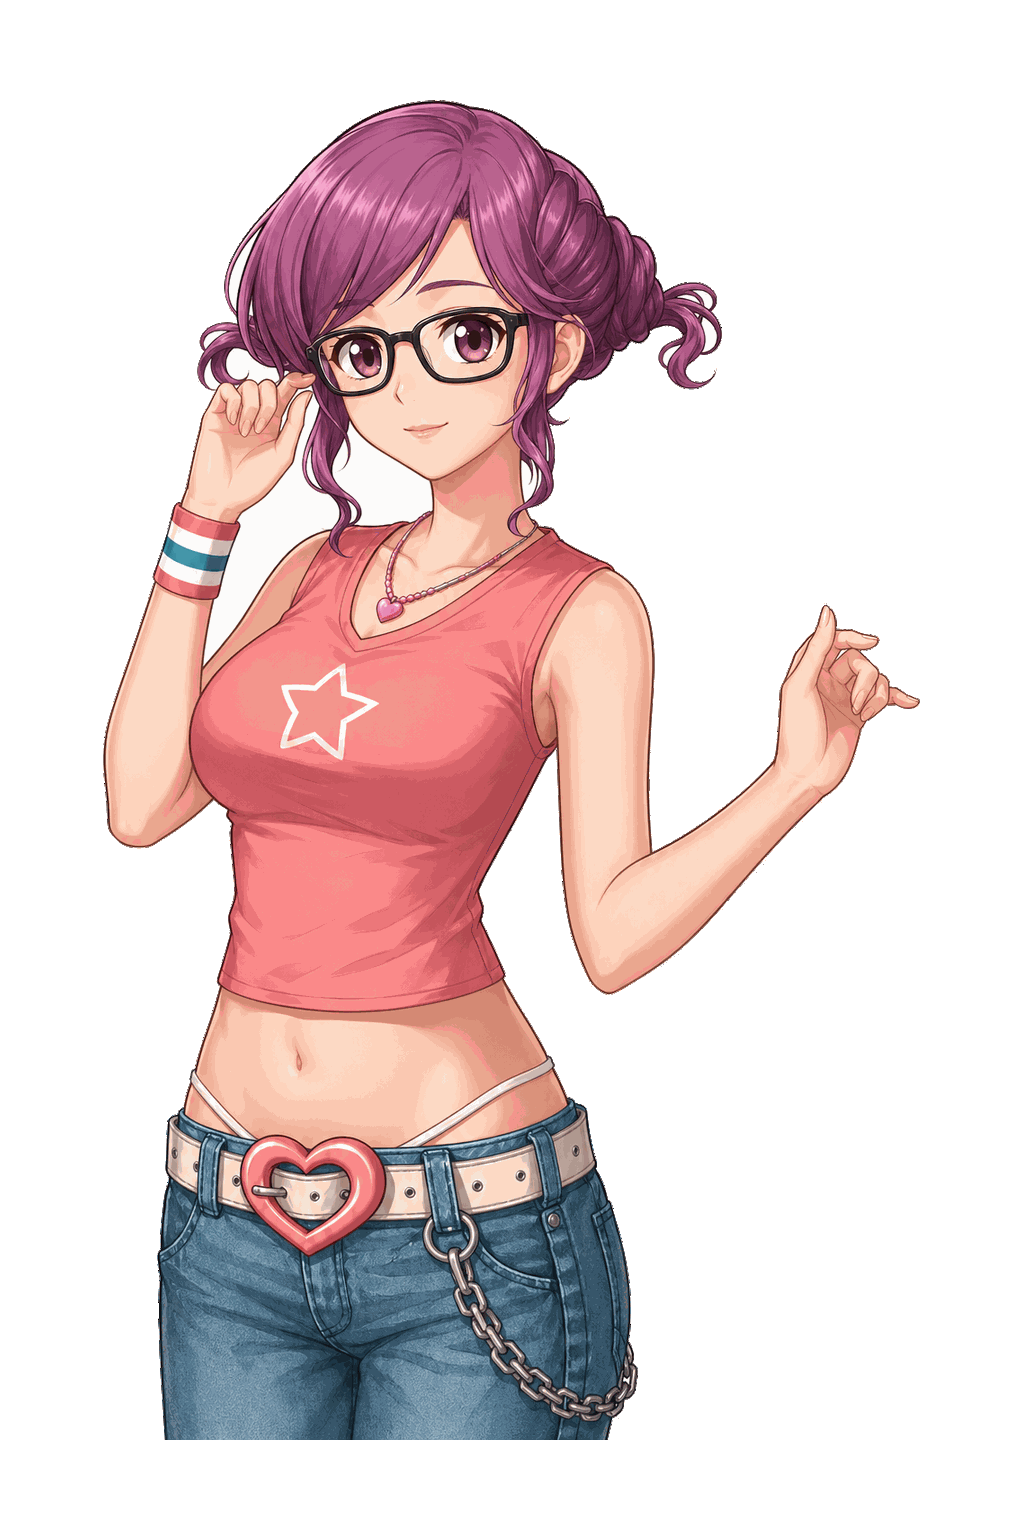
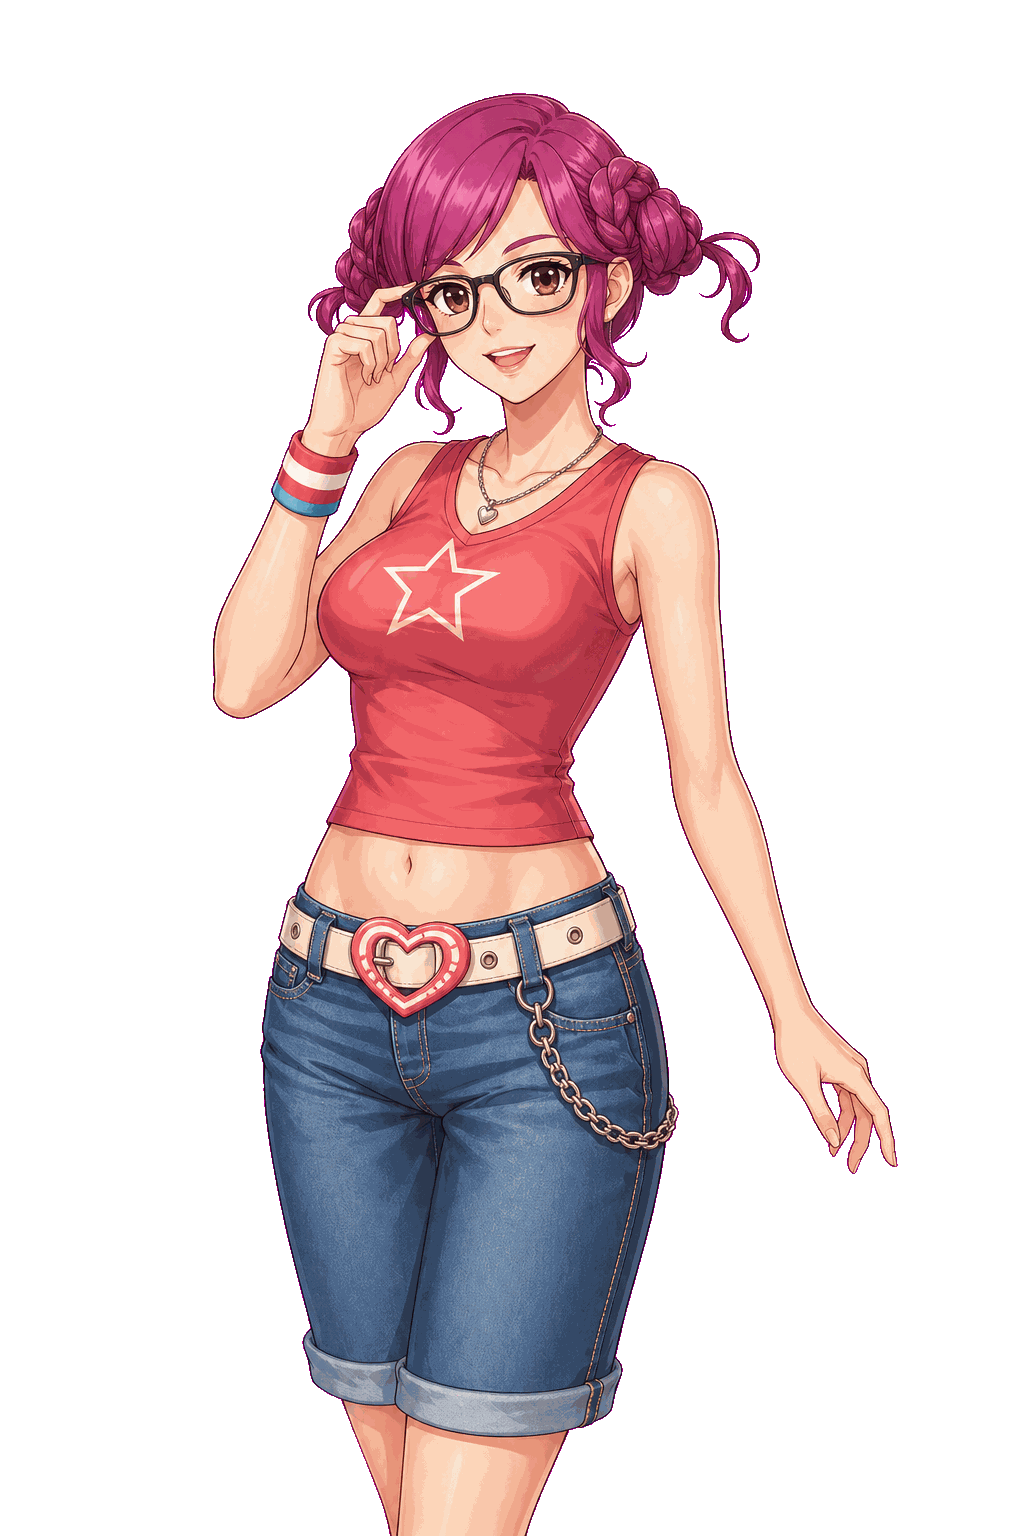
fix(portrait): regenerate suman portrait clean — replaces patch approach [prompt:021]
User insight: patching enclosed white slivers (hand-face gap,
hair-cheek-neck-shoulder gap) was a losing battle — corner-flood couldn't
reach them and connected-component sliver detection couldn't reliably
distinguish background from logo/highlights.

Approach: regenerate from references/suman-ref.png via $generate2dsprite
single-asset character with clean_hd art_style. Skill's own chroma-key
handles enclosed regions naturally because magenta fills all gaps before
chroma-key cleanup.

Verified by Claude (Pillow + Read):
- size 1024x1536 RGBA
- alpha halo (1..254): 0 (binary)
- opaque near-white: 3584 (was 24017) — only logo + highlights remain
- edge near-white: 0/6704 (was 42%)
- Visual: hand-head gap transparent, neck-shoulder gap transparent, white
  star logo on shirt preserved, character identity matches reference
  (magenta hair twin buns, red sleeveless, jeans, glasses, heart belt)

Process learning: cx wrapper had a stdin issue in background invocations
(codex would hang on 'Reading additional input from stdin'). Fixed cx
wrapper with conditional 'exec ... < /dev/null' for non-interactive runs.

Removed 020 prompt (superseded by 021's regenerate-instead-of-patch).

diff --git a/JOURNAL.md b/JOURNAL.md
@@ -672,3 +672,71 @@ index 571e921..407a87b 100644
 - **Decisions made**: Used local Pillow packing because the raw image_gen outputs were large 4x4 sheets, not project-ready 128x192 sheets. The packing targeted the measured chenyifu row bboxes exactly and did not modify chenyifu, portraits, React, JSON, or map files.
 
 2026-04-30 10:43 CST — Mechanical TS6133 fix in src/components/Dialogue/CharacterPortrait.tsx; removed unused `emotion` from destructure only, kept interface unchanged; `pnpm typecheck` n/a (sandbox: Corepack EPERM opening /Users/hubert/.cache/node/corepack/lastKnownGood.json).
+
+## 2026-04-30 10:49 — codex-prompt 020 flood-fill-enclosed-white
+
+- **STATUS**: blocked
+- **Commits**: pending Claude
+- **Files changed**:
+  - ~ public/portraits/suman-normal.png
+  - ~ codex-prompts/020-flood-fill-enclosed-white.md
+  - ~ JOURNAL.md
+- **Self-check**:
+  - typecheck: n/a (image-only task)
+  - lint: n/a (image-only task)
+  - dev server boot: n/a (sandbox)
+- **Verified output**:
+  1. Task A top 5 opaque near-white components before cleanup:
+     - size=9450 bbox=[y 394..663, x 204..338] touches_edge=False aspect=0.500
+     - size=5555 bbox=[y 423..524, x 333..431] touches_edge=False aspect=0.971
+     - size=1017 bbox=[y 349..382, x 227..278] touches_edge=False aspect=0.654
+     - size=663 bbox=[y 666..747, x 281..344] touches_edge=False aspect=0.780
+     - size=657 bbox=[y 1079..1145, x 403..512] touches_edge=False aspect=0.609
+  2. Task B cleanup parameters and count:
+     - rgb_threshold=220, size_min=50, aspect_min=0.7, dim_min=10
+     - cleared pixel count=14546
+     - cleared largest components included size=9450 bbox=[y 394..663, x 204..338] aspect=0.500; size=1017 bbox=[y 349..382, x 227..278] aspect=0.654; size=657 bbox=[y 1079..1145, x 403..512] aspect=0.609; size=638 bbox=[y 678..759, x 330..378] aspect=0.598; size=573 bbox=[y 527..553, x 173..211] aspect=0.692
+  3. view_image after cleanup:
+     - 手跟臉之間仍有明顯白色背景區域；post-cleanup component measurement shows remaining size=5555 bbox=[y 423..524, x 333..431] aspect=0.971 in the face/raised-hand area.
+     - 衣服 white star logo 還在，胸前白色星形外框可見。
+     - 角色身上其他白色高光還在，包含頭髮白色高光、皮膚亮部、腰帶/配件亮部。
+- **Notes**: Ran the prompt-provided BFS component diagnosis and cleanup code on `public/portraits/suman-normal.png`. The specified rule removed elongated enclosed white slivers but did not remove the remaining near-square hand/face enclosed white component.
+- **BLOCKER**: Deliverable failed verification: hand/face enclosed white remains visible after Task B. The prompt's suggested retry of lowering `aspect_min` would clear fewer components and would not target the remaining aspect=0.971 component; raising `aspect_min` risks matching preserved logo/highlight components, so I stopped instead of tuning beyond the prompt.
+- **Decisions made**: none
+
+## 2026-04-30 11:16 — codex-prompt 021 regenerate-suman-portrait
+
+- **STATUS**: ready-for-commit
+- **Commits**: pending Claude
+- **Files changed**:
+  - ~ public/portraits/suman-normal.png
+  - ~ codex-prompts/021-regenerate-suman-portrait.md
+  - ~ JOURNAL.md
+- **Self-check**:
+  - typecheck: n/a (image-only task)
+  - lint: n/a (image-only task)
+  - dev server boot: n/a (sandbox)
+  - Pillow acceptance: pass
+- **Verified output**:
+  1. Reference view_image results:
+     - `references/suman-ref.png`: young woman with dark pink/magenta short hair, small twin braided buns/top knots, curled side strands, black-frame glasses, red sleeveless top with white star logo, exposed waist, blue denim lower half, white belt with red heart buckle, chain detail, red/white/blue wristbands, and one hand raised near her face.
+     - `public/portraits/protagonist-normal.png`: clean HD anime VN portrait with crisp dark line art, smooth cel shading, warm skin shading, controlled highlights, and transparent background.
+     - `public/portraits/chenyifu-normal.png`: same clean HD VN paint anchor, dark outline, soft cel-shaded clothing folds, warm palette, and transparent background.
+  2. Regenerated `public/portraits/suman-normal.png` Pillow metrics:
+     - Size: `(1536, 1024, 4)` after `convert('RGBA')`.
+     - Alpha=0: `1071442`; Alpha=255: `501422`; Alpha 1..254 halo: `0`.
+     - Opaque near-white pixels: `3584` (< 5000).
+     - Edge near-white pixels: `0 / 6704` (< 200).
+     - File mode/size: `RGBA`, 1024x1536, `533849` bytes (< 800 KB).
+  3. Regenerated portrait view_image:
+     - Clean transparent silhouette with dark/pink outline; no visible white outer edge artifact.
+     - The gap between raised hand/fingers and face/glasses reads as transparent black in the viewer, not enclosed white.
+     - The spaces around hair curls, cheek, neck, shoulder, and raised arm read as transparent black, not enclosed white slivers.
+     - White star logo on the red top, belt highlights, skin highlights, and small accessory highlights remain visible.
+     - Character identity matches the reference: magenta twin-bun/braid hair, glasses, red star top, denim shorts/jeans, heart belt buckle, wristbands, friendly VN pose with hand near glasses.
+  4. Raw generation/postprocess evidence:
+     - Raw generated image used: `/Users/hubert/.codex/generated_images/019ddc5f-3dc5-7740-ad54-3b4458637554/ig_075b51f4390ce5d40169f2c8a458e081918b5803728c3e4c7f.png`.
+     - First raw had bright magenta/pink background but not exact flat `#FF00FF`; chroma-key cleanup removed the generated magenta background and enclosed magenta regions before final RGBA PNG optimization.
+- **Notes**: Regenerated Suman as a clean HD 1024x1536 VN portrait, not a pixel sprite. Did not modify protagonist, chenyifu, sprites, maps, or React code.
+- **BLOCKER**: none
+- **Decisions made**: Used one generation attempt. Because the raw background was magenta/pink but not exact `#FF00FF`, used a constrained Pillow chroma-key mask for the generated magenta background, then quantized colors and saved back as RGBA PNG to satisfy the <800 KB output requirement while preserving transparency.

diff --git a/codex-prompts/021-regenerate-suman-portrait.md b/codex-prompts/021-regenerate-suman-portrait.md
@@ -1,0 +1,138 @@
+# Codex Prompt 021 — 重生 suman VN 立繪(放棄 patch enclosed white,直接重做)
+
+STATUS: done
+SKILL: `$generate2dsprite` + Pillow + view_image
+依賴:無
+產出:
+- `public/portraits/suman-normal.png` 重生(乾淨透明,沒 enclosed white sliver)
+
+不動:其他所有檔(includes protagonist + chenyifu portrait,已驗 OK)
+
+---
+
+## Why
+
+018/020 patch suman portrait 連續失敗:
+- 018 trim 掉 outline near-white 邊(corner-flood from boundaries)
+- 但 enclosed sliver(手跟頭中間 / 頭髮-臉-脖-肩之間)alpha=255 outline sealed,corner-flood 進不去
+- 020 想用 connected-component sliver detection 處理,但 logo / 高光 / sliver 形狀區別不容易,容易誤殺
+
+**用戶建議**:重生 suman portrait 比 patch 容易乾淨。
+
+---
+
+## Task A — view_image references 確認 character identity
+
+```
+view_image references/suman-ref.png  ← character identity reference (1024x1536 大圖)
+view_image public/portraits/protagonist-normal.png  ← style consistency reference (paint quality)
+view_image public/portraits/chenyifu-normal.png    ← style consistency reference
+```
+
+JOURNAL Verified output 寫描述:
+- references/suman-ref.png 你看到的 character 細節(hair / outfit / pose / accessories)
+- protagonist+chenyifu 的 paint style anchor(line weight / cel-shading / palette)
+
+## Task B — 用 $generate2dsprite single character 重生
+
+```
+view_image references/suman-ref.png
+
+Use $generate2dsprite to create a single character VN portrait for:
+- 22-year-old young woman, modern casual look (matching the loaded reference)
+- Hair: dark pink / magenta, short with twin small buns or twin braids on top
+- Outfit: red sleeveless top with white star logo at chest, blue denim
+  jeans/shorts with heart-shaped belt buckle, red+white wristband
+- Accessories: black-frame glasses, holding right hand near face (pushing
+  glasses gesture)
+- Style: late-1990s ~ 2000s Taiwanese / Japanese PC galgame visual novel
+  portrait, cel-shaded anime illustration, soft warm color palette, clean
+  line art (match the previously generated protagonist + chenyifu portraits)
+
+asset_type: character
+action: single
+bundle: single_asset
+view: side
+sheet: 1x1 (frames: 1)
+art_style: clean_hd  ← VN HD illustration, NOT retro_pixel. This is a 1024x1536
+                       large portrait, not a 32x48 sprite.
+anchor: center
+margin: safe
+size: 1024x1536 (vertical, half-body waist-up to roughly knees)
+
+CRITICAL: art_style MUST be clean_hd (clean hand-painted HD anime illustration).
+Do NOT generate pixel art / retro_pixel for this — that is for the 32x48
+sprite sheets, not for the 1024x1536 VN portrait.
+
+CRITICAL transparency requirement:
+- Solid #FF00FF magenta background during raw generation. NO white background.
+- After chroma-key cleanup, the alpha channel must be FULLY TRANSPARENT
+  outside the character silhouette — including ENCLOSED REGIONS like the
+  gap between hand and face, the gap between hair-cheek-neck-shoulder, etc.
+- The skill's chroma-key processor should handle this automatically because
+  the magenta background fills all gaps; the gaps will become alpha=0 after
+  chroma-key.
+- NO RGB-white outline. Cel-shading line art uses dark lines, not white.
+
+Output: public/portraits/suman-normal.png, 1024x1536 RGBA, file < 800 KB.
+```
+
+## Task C — 嚴格 verify
+
+```python
+from PIL import Image
+import numpy as np
+
+im = np.array(Image.open('public/portraits/suman-normal.png').convert('RGBA'))
+a = im[:,:,3]
+print(f'Size: {im.shape}')
+print(f'Alpha=0:   {(a==0).sum()}')
+print(f'Alpha=255: {(a==255).sum()}')
+print(f'Alpha 1..254 (halo): {((a>=1)&(a<=254)).sum()}')
+
+# Check enclosed near-white opaque pixels
+opaque = (a==255)
+near_white = (im[:,:,0]>220)&(im[:,:,1]>220)&(im[:,:,2]>220)
+n_white_opaque = (opaque & near_white).sum()
+print(f'Opaque near-white pixels: {n_white_opaque}')
+
+# Check edge near-white
+shrunk = np.zeros_like(opaque)
+shrunk[1:-1,1:-1] = (opaque[1:-1,1:-1] & opaque[:-2,1:-1] & opaque[2:,1:-1] & opaque[1:-1,:-2] & opaque[1:-1,2:])
+edge = opaque & ~shrunk
+edge_near_white = (edge & near_white).sum()
+print(f'Edge near-white pixels: {edge_near_white} / {edge.sum()}')
+```
+
+**Acceptance criteria**(全部都要 pass,不過就 retry,最多 2 次):
+- size = (1536, 1024, 4)(RGBA)
+- alpha 1..254(halo)< total pixel 數的 5%(允許輕微 anti-alias)
+- **opaque near-white pixels < 5000**(角色身上 logo + 高光,不超過 5000;之前 patch 失敗版是 24017)
+- **edge near-white pixels < 200**(邊緣不是白色 outline)
+
+如果不過就 view_image 看視覺哪裡有問題,寫 BLOCKER 進 JOURNAL,STATUS=blocked,留 Claude 處理。
+
+## Task D — Verified output 必填
+
+JOURNAL.md `Verified output:` 段:
+
+1. references/suman-ref.png 描述
+2. 重生後 alpha histogram + opaque near-white count + edge near-white count
+3. view_image 重生後的 portrait,用人話描述:
+   - 角色輪廓乾淨度(白邊 / 暗邊 / no edge artifact)
+   - 手跟臉之間是否透明(過往 enclosed white 那塊)
+   - 頭髮-臉-脖-肩之間是否透明(另一個 enclosed)
+   - 角色身上 white star logo / highlights 是否保留
+   - 整體跟 references/suman-ref.png 是否角色身份對得上
+
+## 完成後
+
+1. JOURNAL.md append entry,Verified output 4 項
+2. codex-prompts/021-...md STATUS: → ready-for-commit / blocked
+3. **不要 git commit / push**
+
+## 不要做
+
+- 不要 patch 既有 PNG(alpha threshold / flood fill / connected component 都不要)
+- 不要動 protagonist / chenyifu portrait
+- 不要動 sprite / map / React
